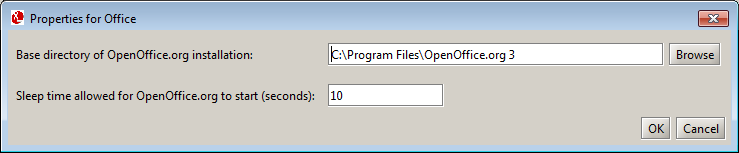
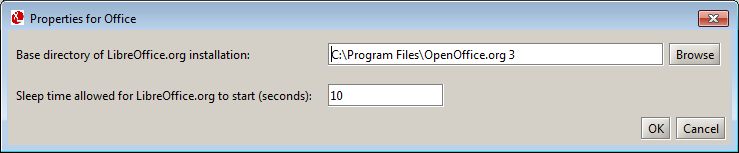
Changed help references of OpenOffice to LibreOffice

Changed region(s): [[0.1867, 0.5752, 0.4357, 0.6797], [0.1245, 0.3137, 0.3424, 0.3922]]

diff --git a/xena/doc/content/setoffice.html b/xena/doc/content/setoffice.html
@@ -1,0 +1,72 @@
+<!DOCTYPE html PUBLIC "-//W3C//DTD XHTML 1.0 Transitional//EN"
+        "http://www.w3.org/TR/xhtml1/DTD/xhtml1-transitional.dtd">
+<html xmlns="http://www.w3.org/1999/xhtml" xml:lang="en" lang="en">
+
+<head>
+  <meta http-equiv="content-type" content="text/html; charset=UTF-8" />
+  <title>Setup OpenOffice</title>
+  <link rel="stylesheet" href="../theme/styles.css" type="text/css" />
+</head>
+<body>
+<h1>Office</h1>
+<hr />
+
+<p>The external tool for converting office documents to Open Document Format (ODF) is <b>LibreOffice</b>.</p>
+<p><b>Note:</b> If you have not already done so, please install the latest version of LibreOffice as it is <em>not</em> bundled with Xena.</p>
+
+<br />
+<h2>About LibreOffice</h2>
+
+<p>LibreOffice (<em>http://www.libreoffice.org</em>) is a free and open source office suite which supports numerous file formats.</p>
+
+<p>LibreOffice must be installed to enable Xena to convert word processed
+documents, spreadsheets and presentations into Open Document Format (ODF), ISO 26300. If LibreOffice is not installed, 
+Xena will only binary normalise these file types. 
+For more information about Binary Normalisation, see <a href="normalisation.html">Normalising Files</a>.</p>
+
+<p>It is recommended that you use the latest version of LibreOffice, which may be
+downloaded free of charge from <i>http://www.libreoffice.org/download/</i>.</p>
+
+<p>Normalisation will be more reliable if a single version of LibreOffice is installed on your computer. 
+For this reason, it is recommended that you remove any earlier versions of LibreOffice from your system, making sure you
+only have the latest version installed.</p>
+
+<br />
+<h2>Location of external program</h2>
+<p>Depending on your operating system, LibreOffice will typically be installed in the following location:</p>
+<ul>
+<li>Linux - under <i>/usr/bin/</i> or <i>/usr/lib/</i>, although it depends on your distribution.</li>
+<li>OS X - under <i>/Applications/</i>.</li>
+<li>Windows - under <i>C:\Program Files\</i>.</li>
+</ul>
+
+<br />
+<h2>How to configure the Office plugin</h2>
+<ol>
+<li>From the Xena menu bar, select <b>Tools - Plugin Preferences - Office</b>:
+<p><img src="../images/06-prefs-menu-office.png" alt="Plugin Preferences - Office" /></p>
+<br />
+<p><b>Result:</b> The office properties window is displayed.</p>
+<p><img src="../images/09-prefs-office.png" alt="Office properties window" /></p>
+<br />
+</li>
+<li>In the <i>Base Directory of LibreOffice.org Installation</i> field:
+<ul>
+<li>Click the <b>Browse</b> button.</li>
+<li>Navigate to the base directory of LibreOffice (see above).</li>
+<li>Click <b>Open</b>.</li>
+</ul>
+</li>
+
+<li>Optional: In the <i>Sleep time allowed for LibreOffice.org to start</i> field, type the amount of time (in seconds) that Xena should wait for the system to start LibreOffice. 
+ 
+
+<p><b>Note:</b> This option allows you to tell Xena how long to wait for LibreOffice to load. The default value is 5 seconds.</p>
+<p>Some slower systems take longer to load LibreOffice, which may result in Xena being unable to contact it to perform file conversion. </p>
+<p>If using a fast computer, reducing this value (perhaps down to just a few seconds) may decrease the time required to convert a large amount of office files.</p>
+</li>
+<li>Click <b>OK</b> to save the settings.</li>
+</ol>
+
+</body>
+</html>

diff --git a/xena/doc/content/setplugins.html b/xena/doc/content/setplugins.html
@@ -30,7 +30,7 @@ which converts PST files to MBOX format - see <a href="setemail.html">Email</a><
 <li>Convert is part of the free and open source <em>ImageMagick</em> software suite (<em>http://www.imagemagick.org</em>) for displaying, 
 converting and editing raster image files - see <a href="setimage.html">Image</a></li>
 <li>Tesseract (<em>http://code.google.com/p/tesseract-ocr/</em>) is a free and open source Optical Character Recognition (OCR) engine used to create text versions of certain files - see <a href="setimage.html">Image</a></li>
-<li>OpenOffice.org (<em>http://openoffice.org</em>) is a free and open source office suite which supports numerous file formats - see <a href="setopenoffice.html">Office</a>.</li>
+<li>LibreOffice (<em>http://www.libreoffice.org</em>) is a free and open source office suite which supports numerous file formats - see <a href="setoffice.html">Office</a>.</li>
 <li>Exiftool (<em>http://www.sno.phy.queensu.ca/~phil/exiftool/</em>) a platform-independent application for extracting metadata from a variety of file formats - see <a href="setmetadata.html">Metadata</a>.</li>
 </ul> 
 
